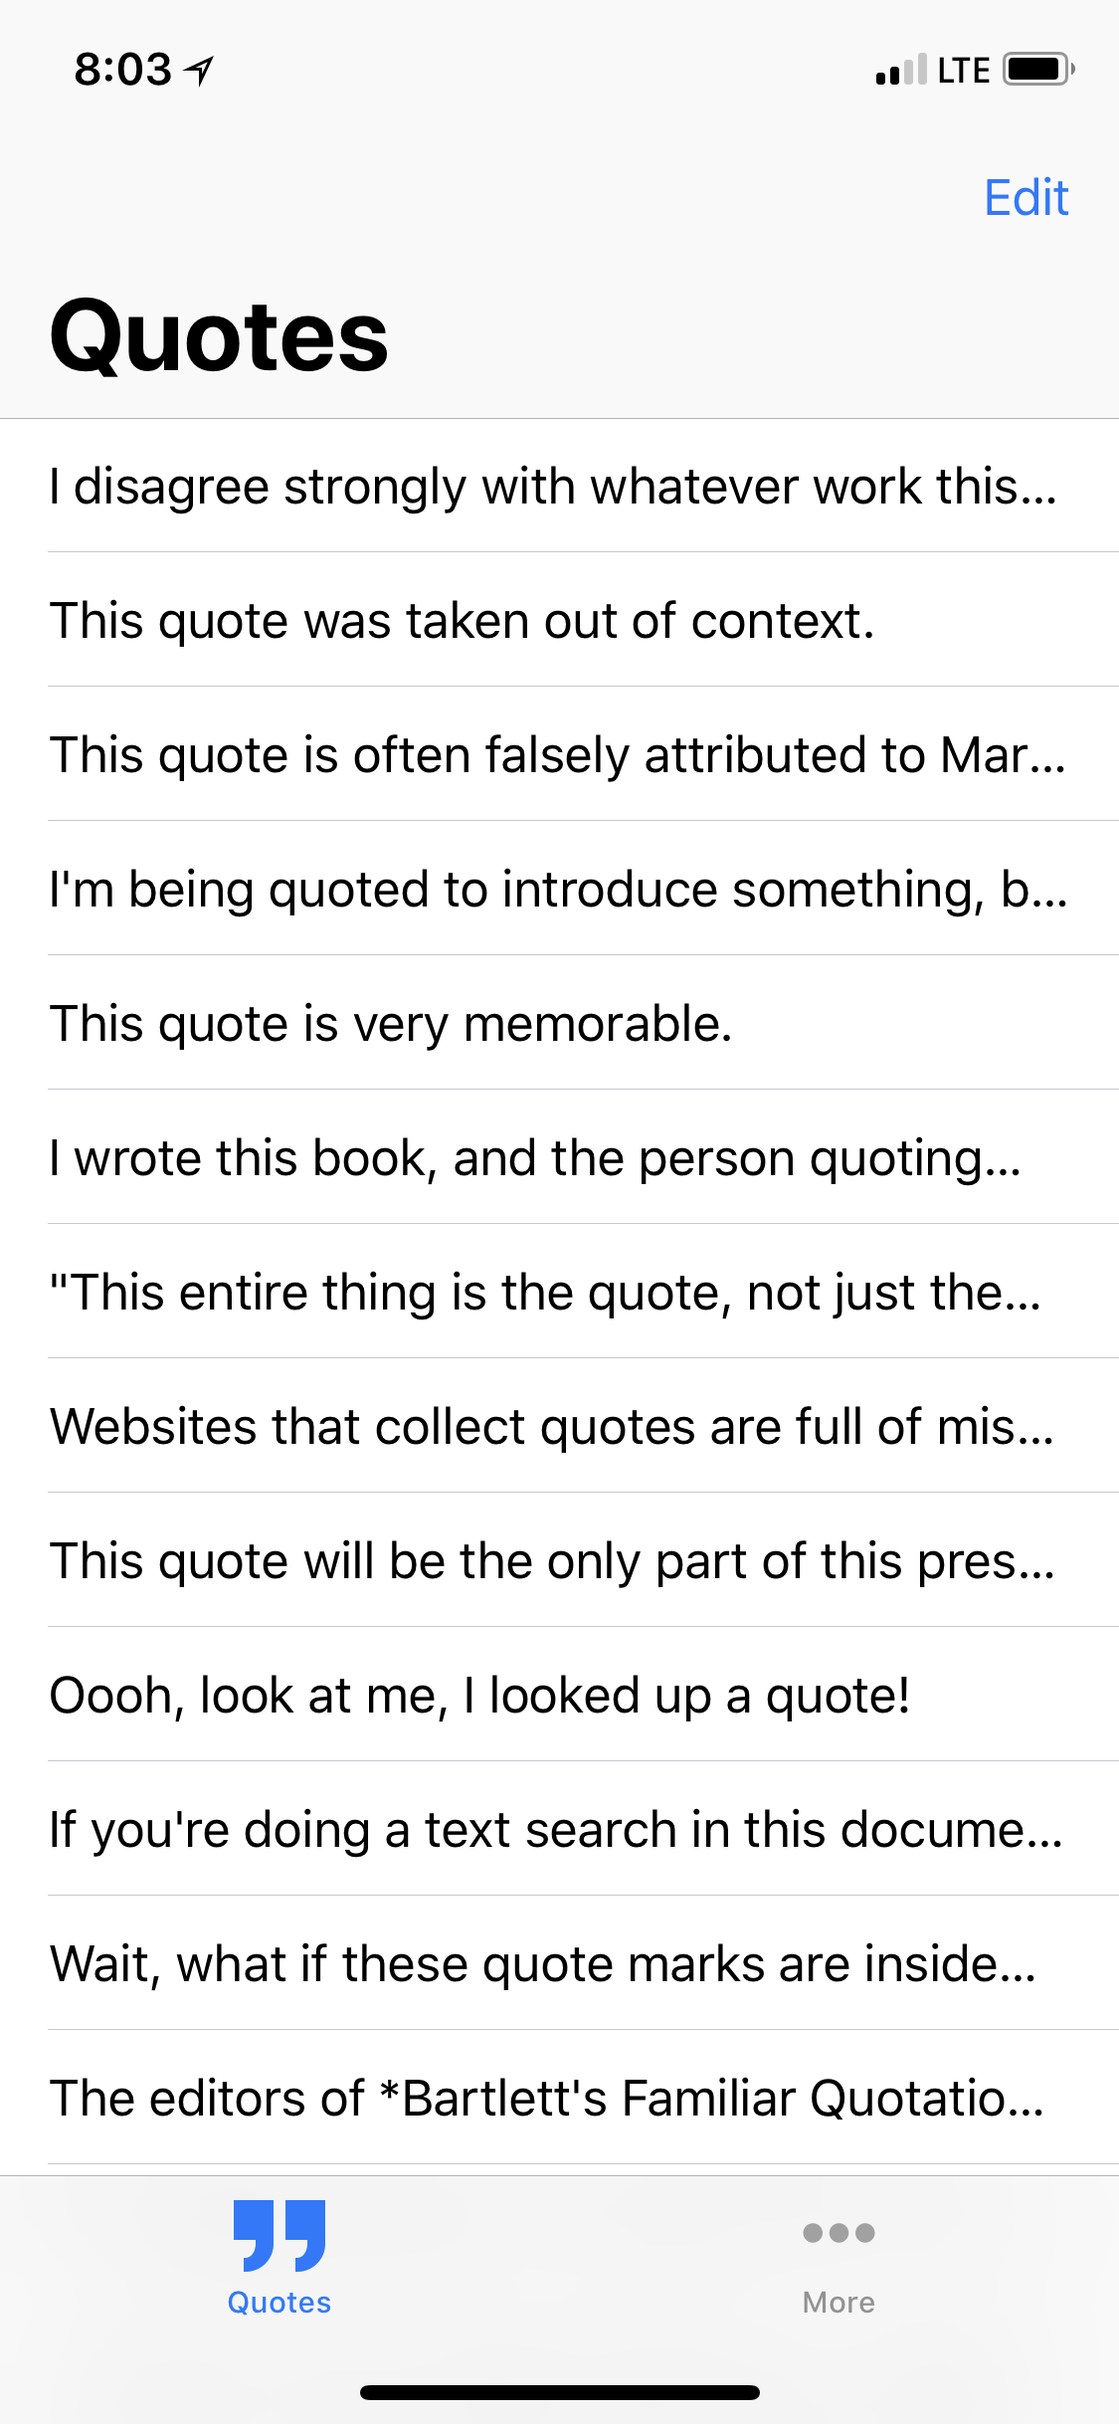
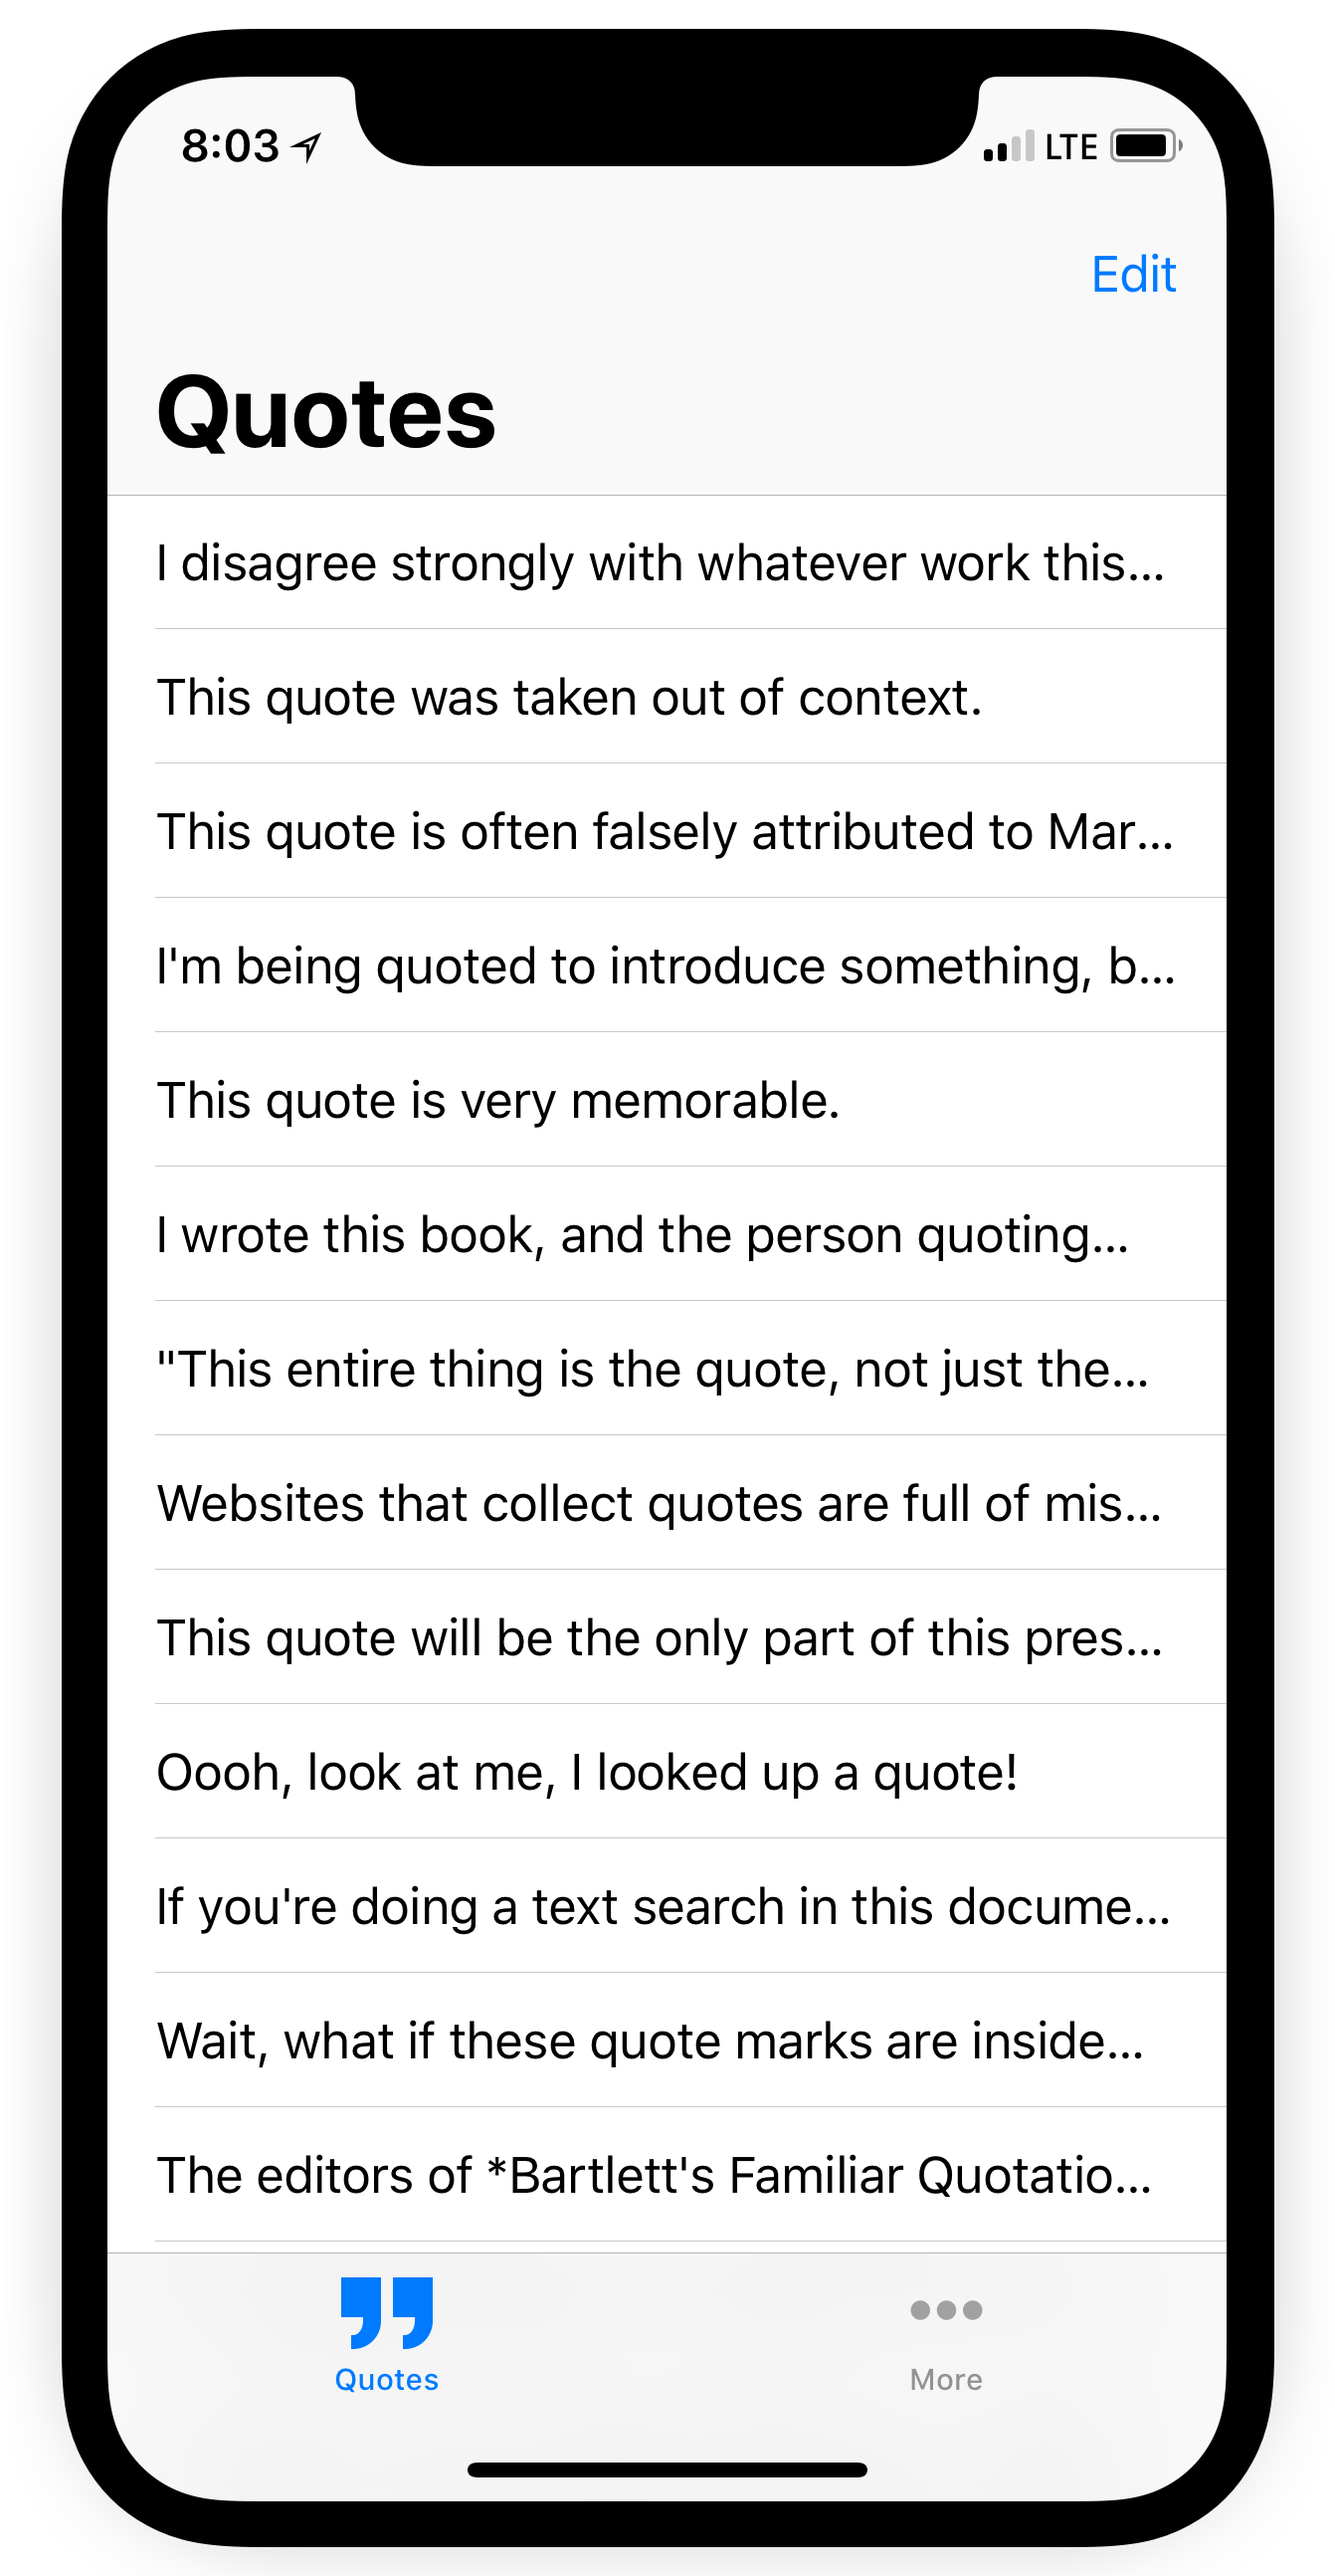
Update screenshot and add to Readme

Changed region(s): [[0.0311, 0.0, 0.9644, 0.9984], [0.8089, 0.0936, 0.8711, 0.1248]]

diff --git a/README.md b/README.md
@@ -1,5 +1,12 @@
 # Adage
 
+<p align="center">
+	<a href="./meta/screenshots/2018-05-31-adage-main-quote-list.png">
+		<img src="./meta/screenshots/2018-05-31-adage-main-quote-list.png" alt="The main quotes list view as of 2018-06-02" width="40%">
+	</a><br />
+	<caption><em>The main quotes list view as of 2018-06-02</em></caption>
+</p>
+
 Adage is two things:
 
 1. A place for all your favorite quotes to live.
